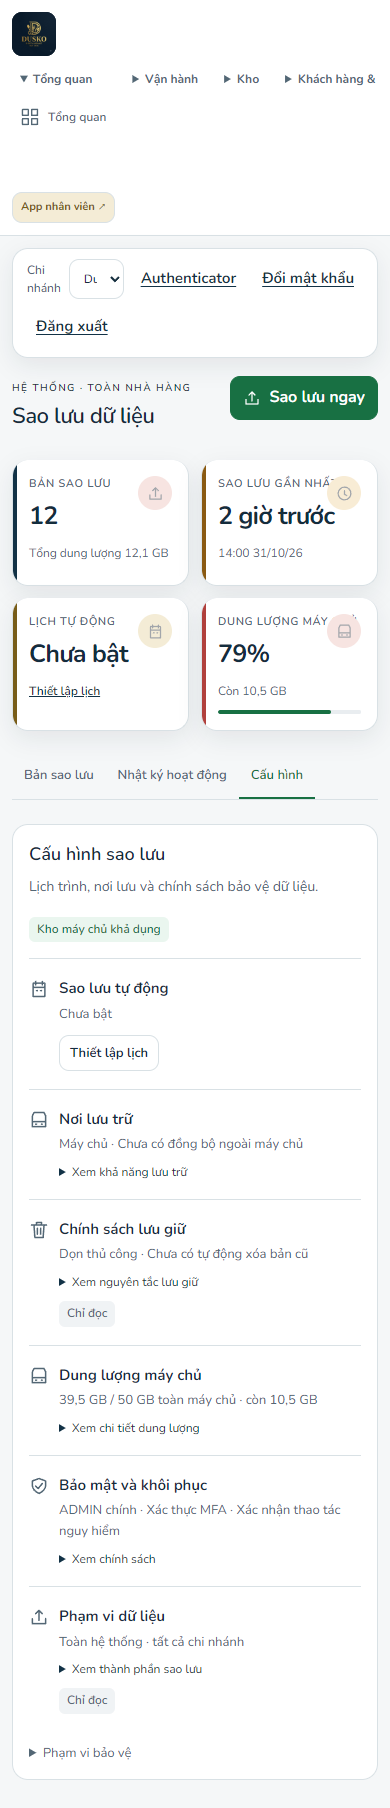
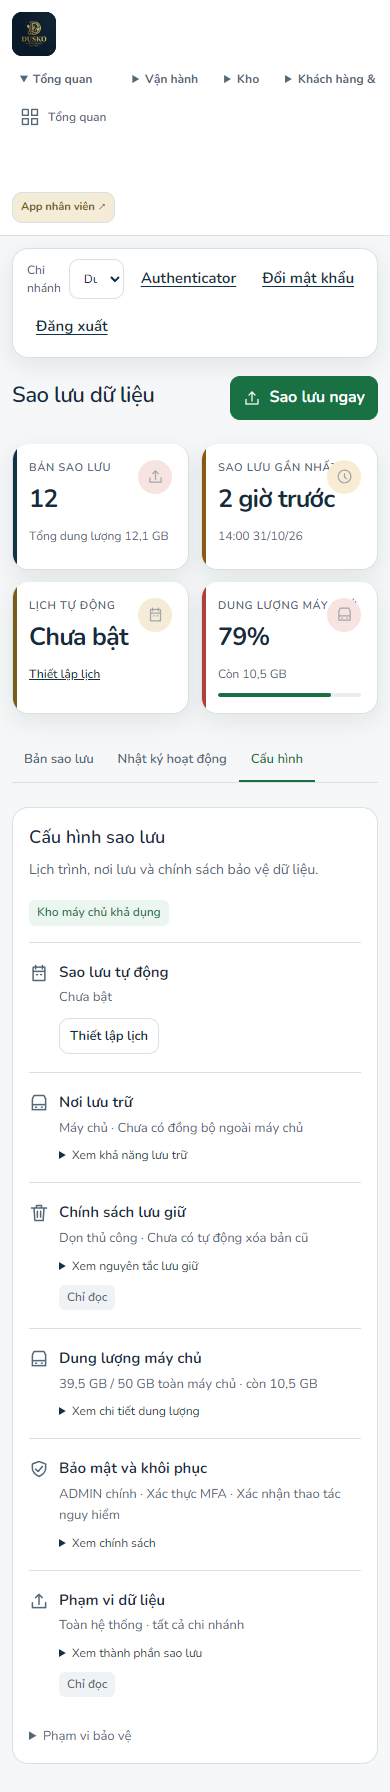
fix: retain backup action menu and always show pagination

diff --git a/src/backup-console.js b/src/backup-console.js
@@ -51,7 +51,7 @@ export function backupStatusHtml(data,view={}) {
  if(schedule.lastError)warnings.push({text:schedule.lastError,action:'tab-settings',label:'Kiểm tra lịch'});
  if(lowDisk)warnings.push({text:'Dung lượng trống dưới ngưỡng tối thiểu 512 MiB. Cần giải phóng dung lượng trước khi sao lưu.',action:'tab-settings',label:'Xem dung lượng'});
  const issues=[...(!connected.some(item=>item.id!=='local')?['Chưa ghi nhận bản sao ngoài máy chủ; mất volume có thể làm mất cả các bản local.']:[]),...(!data.restoreVerified?['Chưa có kết quả kiểm chứng khôi phục cho các bản trong kho này.']:[]),'Danh sách dựa trên manifest; chưa đối chiếu lại toàn bộ checksum khi tải trang.'];
- const header=`<div class="page-head bk-heading"><div><span class="eyebrow">HỆ THỐNG · TOÀN NHÀ HÀNG</span><h1>Sao lưu dữ liệu</h1></div><button class="btn primary bk-primary" data-backup="create" ${cap.canCreate?'':'disabled'}>${icons.backup}Sao lưu ngay</button></div>`;
+ const header=`<div class="page-head bk-heading"><div><h1>Sao lưu dữ liệu</h1></div><button class="btn primary bk-primary" data-backup="create" ${cap.canCreate?'':'disabled'}>${icons.backup}Sao lưu ngay</button></div>`;
  const running=active?`<section class="bk-running" aria-live="polite"><div class="bk-running-head"><div>${badge(backupStates[active.state]||'Đang xử lý',active.stalled?'danger':'info')}<strong>${e(operations[active.operation||'BACKUP'])} · ${e(phases[active.phase]||'Chuẩn bị')}</strong></div><b>${progress}%</b></div><progress class="bk-meter" max="100" value="${progress}" aria-label="Tiến độ tác vụ">${progress}%</progress><small>Tiến độ theo công đoạn · tác vụ tiếp tục chạy khi đóng trang</small>${active.message?`<p class="bk-error">${e(active.message)}</p>`:''}</section>`:'';
  const overview=backupOverviewHtml({data,backups,latest,relative,percent,diskTone,frequency,schedule,sum,issues,icons,size:backupSize});
  const warningHtml=item=>`<span>${e(item.text)}</span>${item.action?`<button class="btn text" data-backup="${item.action}" ${item.action==='schedule'&&locked?'disabled':''}>${e(item.label)}</button>`:''}`;
@@ -59,9 +59,9 @@ export function backupStatusHtml(data,view={}) {
  const tabs=`<nav class="bk-tabs" aria-label="Mục quản trị sao lưu">${[['archives','Bản sao lưu'],['activity','Nhật ký hoạt động'],['settings','Cấu hình']].map(([id,label])=>`<button data-backup="tab-${id}" ${tab===id?'aria-current="page"':''}>${label}</button>`).join('')}</nav>`;
  const filters=`<div class="bk-date-filters"><div class="bk-filters" role="search" aria-label="Lọc theo thời gian"><label><span>Từ ngày</span><input type="date" data-backup-filter="from" value="${e(view.from||'')}"></label><label><span>Đến ngày</span><input type="date" data-backup-filter="to" value="${e(view.to||'')}"></label><button class="btn secondary" data-backup="clear-filters">Xóa bộ lọc</button></div></div>`;
  const toolbar=`<div class="bk-list-toolbar"><label class="bk-list-search"><span class="bk-sr-only">Tìm bản sao lưu</span><span aria-hidden="true">⌕</span><input type="search" data-backup-filter="query" value="${e(view.query||'')}" placeholder="Tìm mã bản sao, người tạo…"></label><label class="bk-list-type"><span class="bk-sr-only">Loại sao lưu</span><select data-backup-filter="type">${[['','Tất cả loại sao lưu'],['MANUAL','Thủ công'],['AUTO','Tự động'],['SAFETY','Trước khôi phục']].map(([value,label])=>`<option value="${value}" ${view.type===value?'selected':''}>${label}</option>`).join('')}</select></label>${filters}<button class="btn secondary bk-refresh" data-backup="refresh">Làm mới</button></div>`;
- const table=archiveView.items.length?`<div class="table-scroll ui-table-scroll">${tableMarkup({headers:["M\u00e3 b\u1ea3n sao", "Th\u1eddi gian", "Lo\u1ea1i", "Dung l\u01b0\u1ee3ng", "Tr\u1ea1ng th\u00e1i", "Thao t\u00e1c"],rowsHtml:archiveView.items.map(item=>`<tr><td data-label="Mã bản sao"><button class="bk-record-link" data-backup="details" data-archive-id="${e(item.id)}" title="${e(item.id)}">BK-${e((item.id?.match(/([a-f0-9]{8})-[a-f0-9-]{27}$/i)?.[1]||item.id?.slice(-8)||'—').toUpperCase())}</button></td><td data-label="Thời gian"><strong title="${e(item.requestedByName||'')}" >${e(dateTime(item.createdAt))}</strong></td><td data-label="Loại">${badge(triggerLabel(item.trigger),item.trigger==='AUTO'?'info':'neutral')}</td><td data-label="Dung lượng">${e(backupSize(item.bytes))}</td><td data-label="Trạng thái">${badge('Hoàn tất','success')}</td><td data-label="Thao tác"><div class="bk-row-actions">${action('Khôi phục','restore',item.id,locked||!cap.canRestore||!item.canRestore,item.restoreReason||cap.restoreReason||'Ghi đè dữ liệu toàn hệ thống')}<details class="bk-row-menu" data-backup-detail="archive-${e(item.id)}"><summary aria-label="Thao tác bản sao ${e(dateTime(item.createdAt))}" title="Thao tác"><span aria-hidden="true">⋯</span></summary><div class="bk-menu-items"><button data-backup="details" data-archive-id="${e(item.id)}">Thông tin bản sao</button>${action('Tải về','download',item.id,locked)}<div class="bk-menu-danger"><small>Thao tác cần xác nhận</small>${action('Xóa','delete',item.id,locked||(data.totalBackups??backups.length)<=1,'Giữ lại ít nhất một bản hoàn chỉnh')}</div></div></details></div></td></tr>`).join(''),className:'bk-archive-table'})}</div>`:`<div class="bk-empty"><h3>${backups.length?'Không có bản sao phù hợp':'Chưa có bản sao lưu'}</h3><p>${backups.length?'Thử đổi ngày, loại hoặc từ khóa tìm kiếm.':'Tạo bản đầu tiên bằng nút Sao lưu ngay.'}</p></div>`;
+ const table=archiveView.items.length?`<div class="table-scroll ui-table-scroll">${tableMarkup({headers:["M\u00e3 b\u1ea3n sao", "Th\u1eddi gian", "Lo\u1ea1i", "Dung l\u01b0\u1ee3ng", "Tr\u1ea1ng th\u00e1i", "Thao t\u00e1c"],rowsHtml:archiveView.items.map(item=>`<tr><td data-label="Mã bản sao"><button class="bk-record-link" data-backup="details" data-archive-id="${e(item.id)}" title="${e(item.id)}">BK-${e((item.id?.match(/([a-f0-9]{8})-[a-f0-9-]{27}$/i)?.[1]||item.id?.slice(-8)||'—').toUpperCase())}</button></td><td data-label="Thời gian"><strong title="${e(item.requestedByName||'')}" >${e(dateTime(item.createdAt))}</strong></td><td data-label="Loại">${badge(triggerLabel(item.trigger),item.trigger==='AUTO'?'info':'neutral')}</td><td data-label="Dung lượng">${e(backupSize(item.bytes))}</td><td data-label="Trạng thái">${badge('Hoàn tất','success')}</td><td data-label="Thao tác"><details class="bk-row-menu" data-backup-detail="archive-${e(item.id)}"><summary aria-label="Thao tác bản sao ${e(dateTime(item.createdAt))}" title="Thao tác"><span aria-hidden="true">⋯</span></summary><div class="bk-menu-items"><button data-backup="details" data-archive-id="${e(item.id)}">Thông tin bản sao</button>${action('Tải về','download',item.id,locked)}<div class="bk-menu-danger"><small>Thao tác cần xác nhận</small>${action('Khôi phục','restore',item.id,locked||!cap.canRestore||!item.canRestore,item.restoreReason||cap.restoreReason||'Ghi đè dữ liệu toàn hệ thống')}${action('Xóa','delete',item.id,locked||(data.totalBackups??backups.length)<=1,'Giữ lại ít nhất một bản hoàn chỉnh')}</div></div></details></td></tr>`).join(''),className:'bk-archive-table'})}</div>`:`<div class="bk-empty"><h3>${backups.length?'Không có bản sao phù hợp':'Chưa có bản sao lưu'}</h3><p>${backups.length?'Thử đổi ngày, loại hoặc từ khóa tìm kiếm.':'Tạo bản đầu tiên bằng nút Sao lưu ngay.'}</p></div>`;
  const pageNumbers=[...new Set([1,archiveView.page-1,archiveView.page,archiveView.page+1,archiveView.pages].filter(n=>n>=1&&n<=archiveView.pages))].sort((a,b)=>a-b);
- const pagination=`<div class="bk-pagination" data-page="${archiveView.page}"><div class="bk-pagination-meta"><label>Số dòng mỗi trang <select data-backup-filter="pageSize" aria-label="Số dòng mỗi trang">${[5,10,20].map(n=>`<option ${n===archiveView.pageSize?'selected':''}>${n}</option>`).join('')}</select></label></div>${archiveView.pages>1?`<nav aria-label="Phân trang bản sao lưu"><span class="bk-page-label">Trang ${archiveView.page} / ${archiveView.pages}</span><button class="btn secondary" data-backup="goto-page" data-page="1" ${archiveView.page<=1?'disabled':''} aria-label="Trang đầu">«</button><button class="btn secondary" data-backup="previous-page" ${archiveView.page<=1?'disabled':''} aria-label="Trang trước">‹</button>${pageNumbers.map((n,i)=>`${i&&n>pageNumbers[i-1]+1?'<span class="bk-page-gap">…</span>':''}<button class="btn secondary bk-page-number" data-backup="goto-page" data-page="${n}" ${n===archiveView.page?'aria-current="page"':''} aria-label="Trang ${n}">${n}</button>`).join('')}<button class="btn secondary" data-backup="next-page" ${archiveView.page>=archiveView.pages?'disabled':''} aria-label="Trang sau">›</button><button class="btn secondary" data-backup="goto-page" data-page="${archiveView.pages}" ${archiveView.page>=archiveView.pages?'disabled':''} aria-label="Trang cuối">»</button></nav>`:''}</div>`;
+ const pagination=`<div class="bk-pagination" data-page="${archiveView.page}"><div class="bk-pagination-meta"><label>Số dòng mỗi trang <select data-backup-filter="pageSize" aria-label="Số dòng mỗi trang">${[5,10,20].map(n=>`<option ${n===archiveView.pageSize?'selected':''}>${n}</option>`).join('')}</select></label></div><nav aria-label="Phân trang bản sao lưu"><span class="bk-page-label">Trang ${archiveView.page} / ${archiveView.pages}</span><button class="btn secondary" data-backup="goto-page" data-page="1" ${archiveView.page<=1?'disabled':''} aria-label="Trang đầu">«</button><button class="btn secondary" data-backup="previous-page" ${archiveView.page<=1?'disabled':''} aria-label="Trang trước">‹</button>${pageNumbers.map((n,i)=>`${i&&n>pageNumbers[i-1]+1?'<span class="bk-page-gap">…</span>':''}<button class="btn secondary bk-page-number" data-backup="goto-page" data-page="${n}" ${n===archiveView.page?'aria-current="page"':''} aria-label="Trang ${n}">${n}</button>`).join('')}<button class="btn secondary" data-backup="next-page" ${archiveView.page>=archiveView.pages?'disabled':''} aria-label="Trang sau">›</button><button class="btn secondary" data-backup="goto-page" data-page="${archiveView.pages}" ${archiveView.page>=archiveView.pages?'disabled':''} aria-label="Trang cuối">»</button></nav></div>`;
  const detail=selected?`<section class="bk-archive-detail" aria-label="Thông tin bản sao"><div class="bk-section-head"><h3 tabindex="-1">Thông tin bản sao</h3><button class="btn text" data-backup="close-details">Đóng</button></div><dl><dt>Mã bản sao</dt><dd>${e(selected.id)}</dd><dt>Người tạo</dt><dd>${e(selected.requestedByName||'Chưa ghi nhận')}</dd><dt>Phạm vi</dt><dd>Toàn hệ thống · tất cả chi nhánh</dd><dt>Thành phần</dt><dd>${e(scopeText(selected))}</dd><dt>Nơi lưu</dt><dd>Kho riêng trên máy chủ</dd><dt>Khả năng khôi phục</dt><dd>${selected.canRestore?'Metadata tương thích môi trường hiện tại; khi khôi phục vẫn kiểm tra đầy đủ checksum.':e(selected.restoreReason||'Chưa xác định khả năng tương thích.')}</dd><dt>Kiểm tra khôi phục</dt><dd>Chưa có kết quả kiểm tra khôi phục cho bản sao này.</dd></dl><p>Khôi phục ghi đè dữ liệu hiện tại toàn hệ thống, tự tạo bản SAFETY và tạm dừng nghiệp vụ. SQL/Mongo được xử lý tuần tự; lỗi sau khi ghi có thể cần vận hành phục hồi thủ công.</p>${action('Khôi phục','restore',selected.id,locked||!cap.canRestore||!selected.canRestore,selected.restoreReason||cap.restoreReason||'Ghi đè dữ liệu hiện tại')}</section>`:'';
  const archives=`<section class="bk-archives" aria-label="Danh sách bản sao lưu">${toolbar}${data.truncated?'<p class="bk-footnote">Bộ lọc chỉ áp dụng cho các bản đã tải; kho còn bản chưa được liệt kê.</p>':''}${tableFrame({className:'bk-table-frame',contentHtml:table,footerHtml:pagination})}${detail}${data.invalidCount?`<p class="bk-footnote">${e(data.invalidCount)} thư mục chưa hoàn tất hoặc thiếu manifest hợp lệ.</p>`:''}</section>`;
  const activity=backupAuditHtml(jobs,view);

diff --git a/src/backup-status.css b/src/backup-status.css
@@ -44,9 +44,7 @@
 .bk-protection-notes{margin-top:10px;color:var(--muted);font-size:12px}.bk-protection-notes summary{cursor:pointer;width:fit-content}.bk-protection-notes ul{padding-left:18px;margin:8px 0 0;line-height:1.7}
 .bk-schedule-shortcut{padding:0;border:0;background:transparent;color:var(--primary-ink);font:600 12px/1.5 var(--font-ui);text-decoration:underline;min-height:24px;cursor:pointer}
 .backup-console .bk-metric-grid{margin-bottom:0}.backup-console .bk-archives .ui-table td{vertical-align:middle}.bk-record-link{min-height:36px}
-.bk-row-actions{display:flex;align-items:center;gap:10px;flex-wrap:wrap}.bk-row-actions>.bk-action{display:inline-flex;align-items:center;gap:6px;min-height:36px;padding:6px 10px;border:1px solid #e7b5b0;border-radius:var(--radius-control);background:var(--surface);color:var(--danger);font:600 12px/1.5 var(--font-ui);white-space:nowrap;cursor:pointer}.bk-row-actions>.bk-action:hover:not(:disabled){background:var(--danger-soft)}.bk-row-actions>.bk-action svg{width:14px;height:14px}.bk-row-actions .bk-row-menu>summary{width:32px;height:36px;min-height:36px}
-.bk-archives th:first-child{width:17%}.bk-archives th:nth-child(2){width:23%}.bk-archives th:nth-child(3){width:12%}.bk-archives th:nth-child(4){width:12%}.bk-archives th:nth-child(5){width:13%}.bk-archives th:last-child{width:23%}
-@container(max-width:759px){.bk-row-actions{justify-content:flex-end;width:100%}}
+
 .bk-inline-actions{display:flex;align-items:center;gap:8px;flex-wrap:wrap}.backup-console .bk-activity>.bk-section-head .btn,.backup-console .bk-audit-filters .btn,.backup-console .bk-settings .btn{min-height:36px;padding:6px 10px;font-size:13px;border-color:var(--line);box-shadow:none}
 .bk-audit-filters{display:grid;grid-template-columns:minmax(180px,1.4fr) minmax(140px,1fr) minmax(140px,1fr) auto;gap:10px;align-items:center;margin-bottom:12px}.bk-audit-filters label{min-width:0}
 .backup-console .bk-audit-filters input,.backup-console .bk-audit-filters select{width:100%;min-width:0;min-height:36px;height:36px;padding:6px 10px;border:1px solid var(--line);border-radius:var(--radius-control,10px);background:var(--surface);color:var(--ink);font:inherit;font-size:14px;box-shadow:none}

diff --git a/docs/BACKUP_ADMIN.md b/docs/BACKUP_ADMIN.md
@@ -83,3 +83,7 @@ The later shared-component change supersedes the pastel KPI styling described ab
 The archive view omits the subtitle, duplicated footprint/status text, UTC+7 filter suffixes and range/count summary. Date filtering still uses Vietnam calendar boundaries. Protection/verification limitations remain in Settings, while the schedule-off banner is replaced with a shortcut inside the schedule card. Fault, stale-backup and low-capacity warnings remain conditional.
 
 Each archive row exposes Restore directly beside its secondary menu, with the same capability checks and disabled reason. Download/Delete remain in the menu; Restore still requires the existing CONFIRM, fresh MFA and source-credential acknowledgement. Creator information is available in the timestamp tooltip and archive details. Single-page navigation is omitted; multipage controls and page-size selection continue to work. Shared card/table presentation and branch controls are unchanged.
+
+## Archive actions and always-visible pagination
+
+Restore is again in each archive's three-dot action menu, alongside Download and Delete. The archive pager stays visible for a single page, with unavailable navigation disabled. The redundant system-wide eyebrow has been removed from the backup page header. The previously simplified labels and metadata remain compact; scope and restore impact remain available in details/settings and the confirmation dialog.
